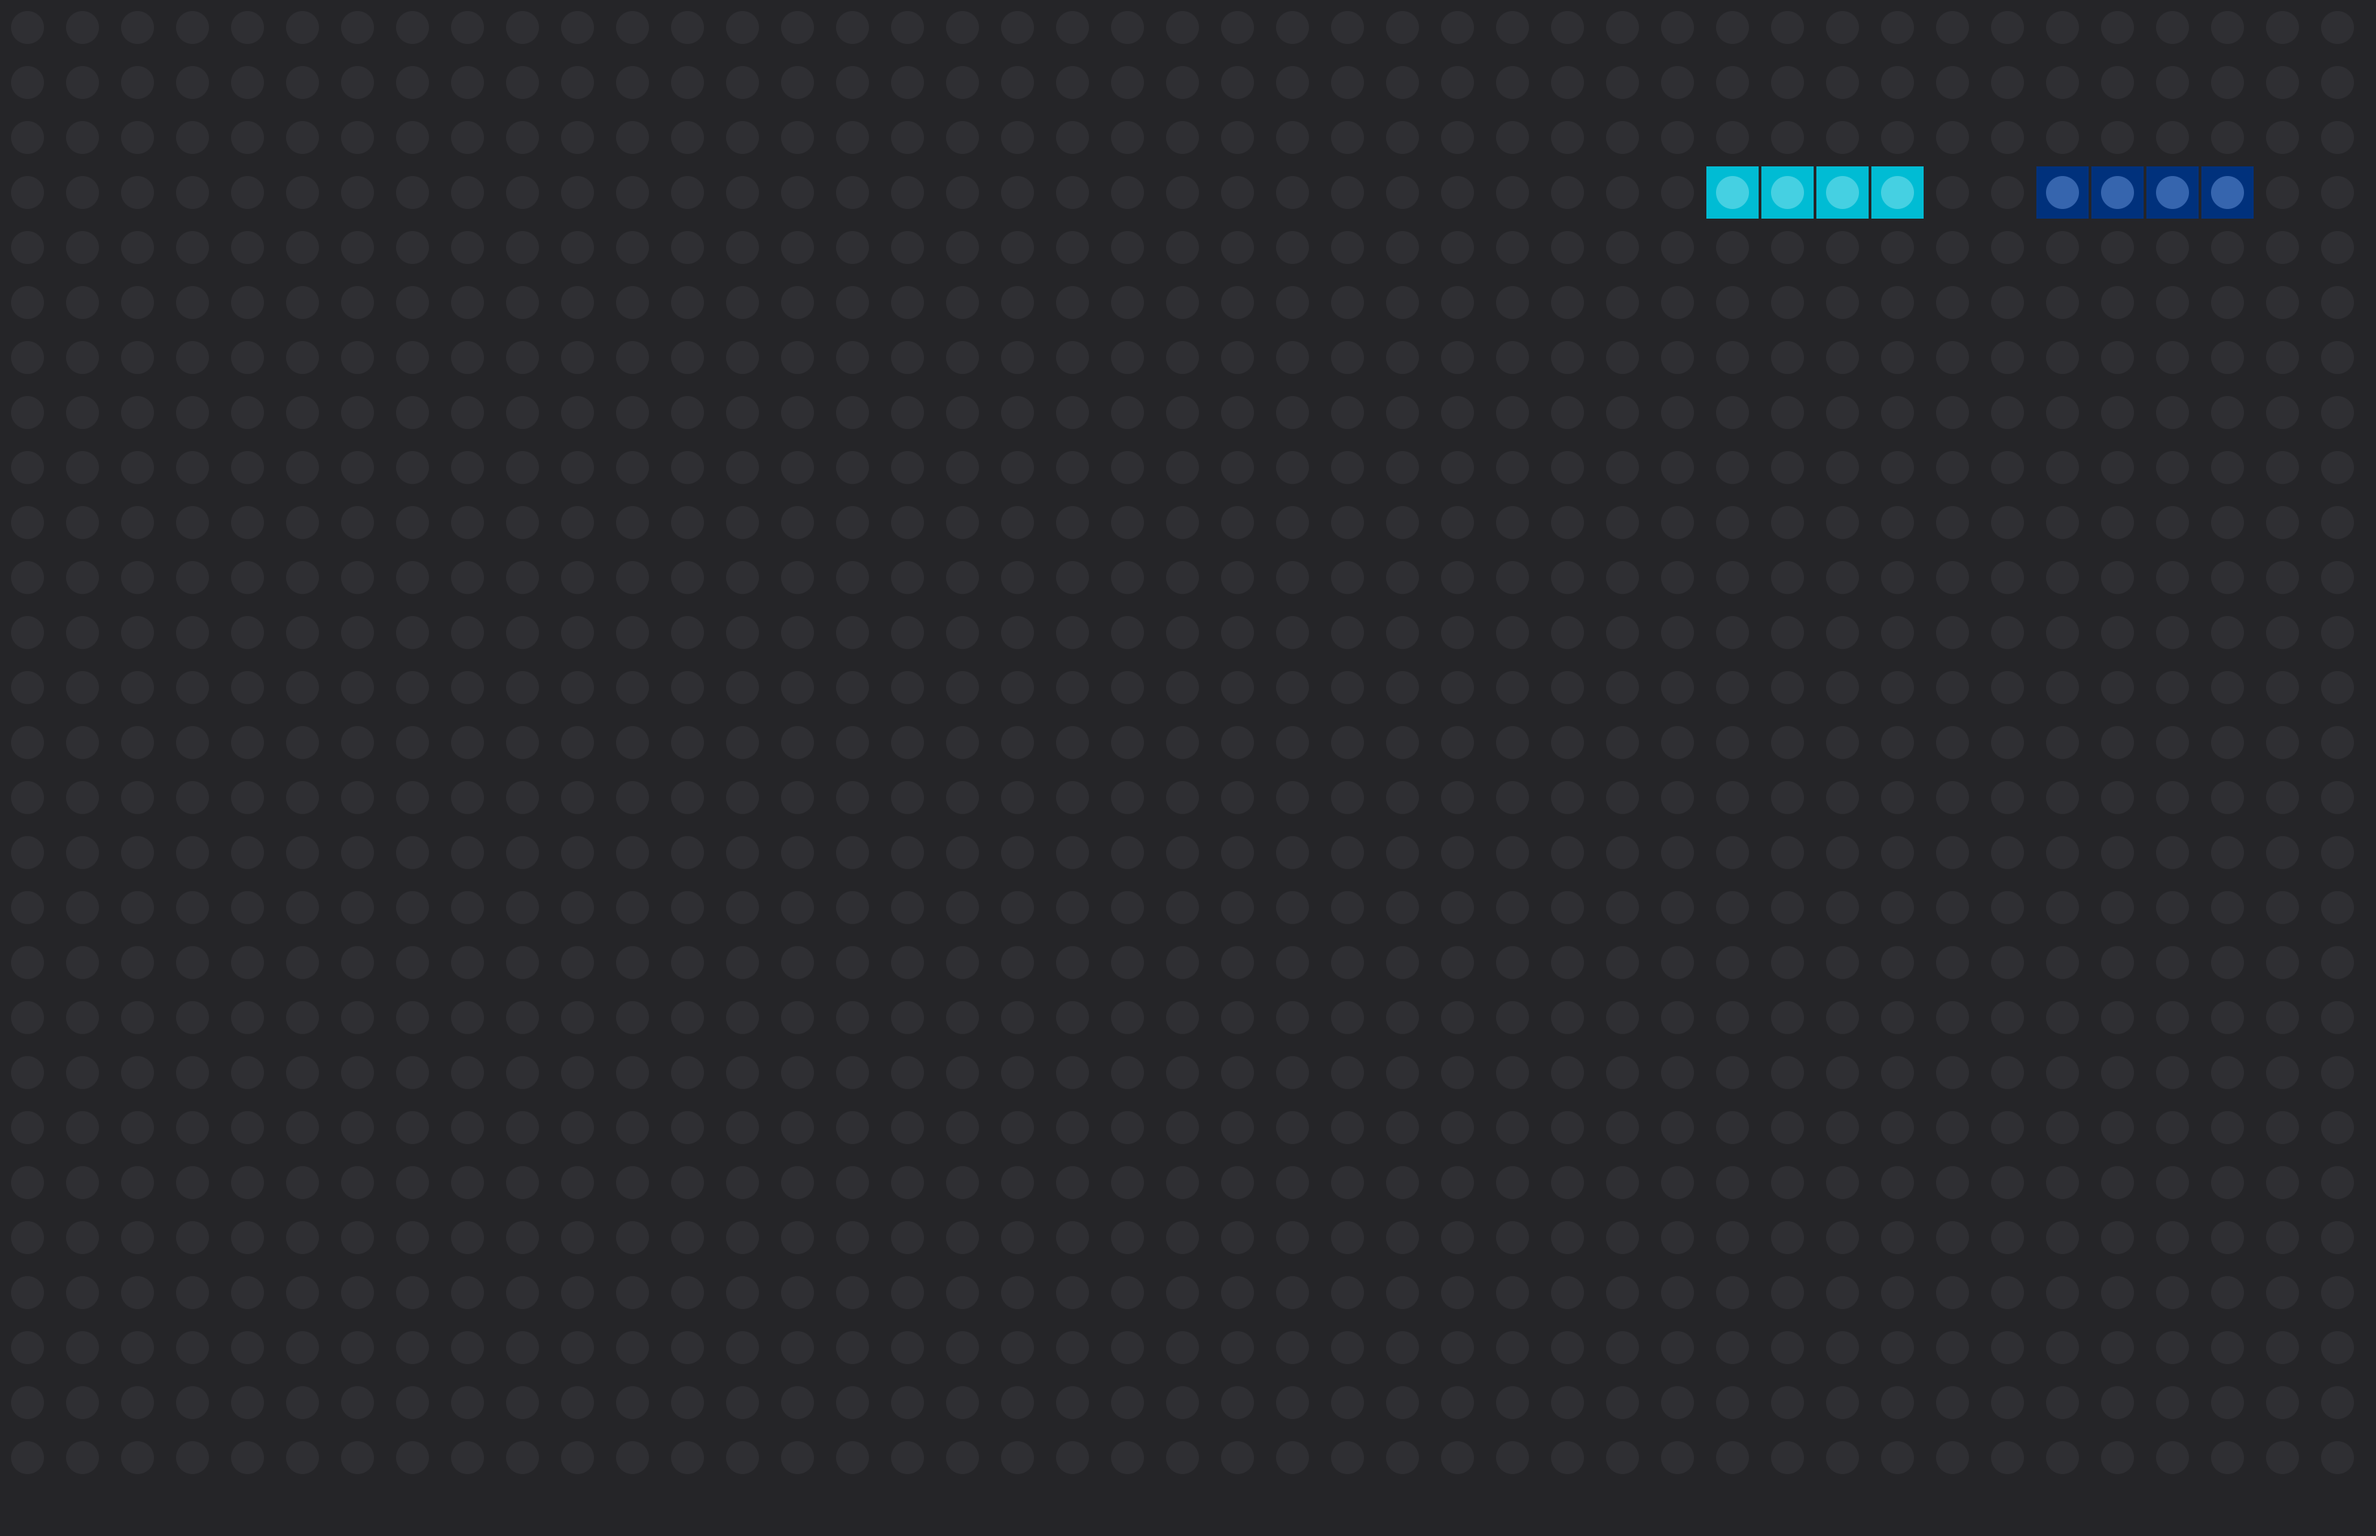
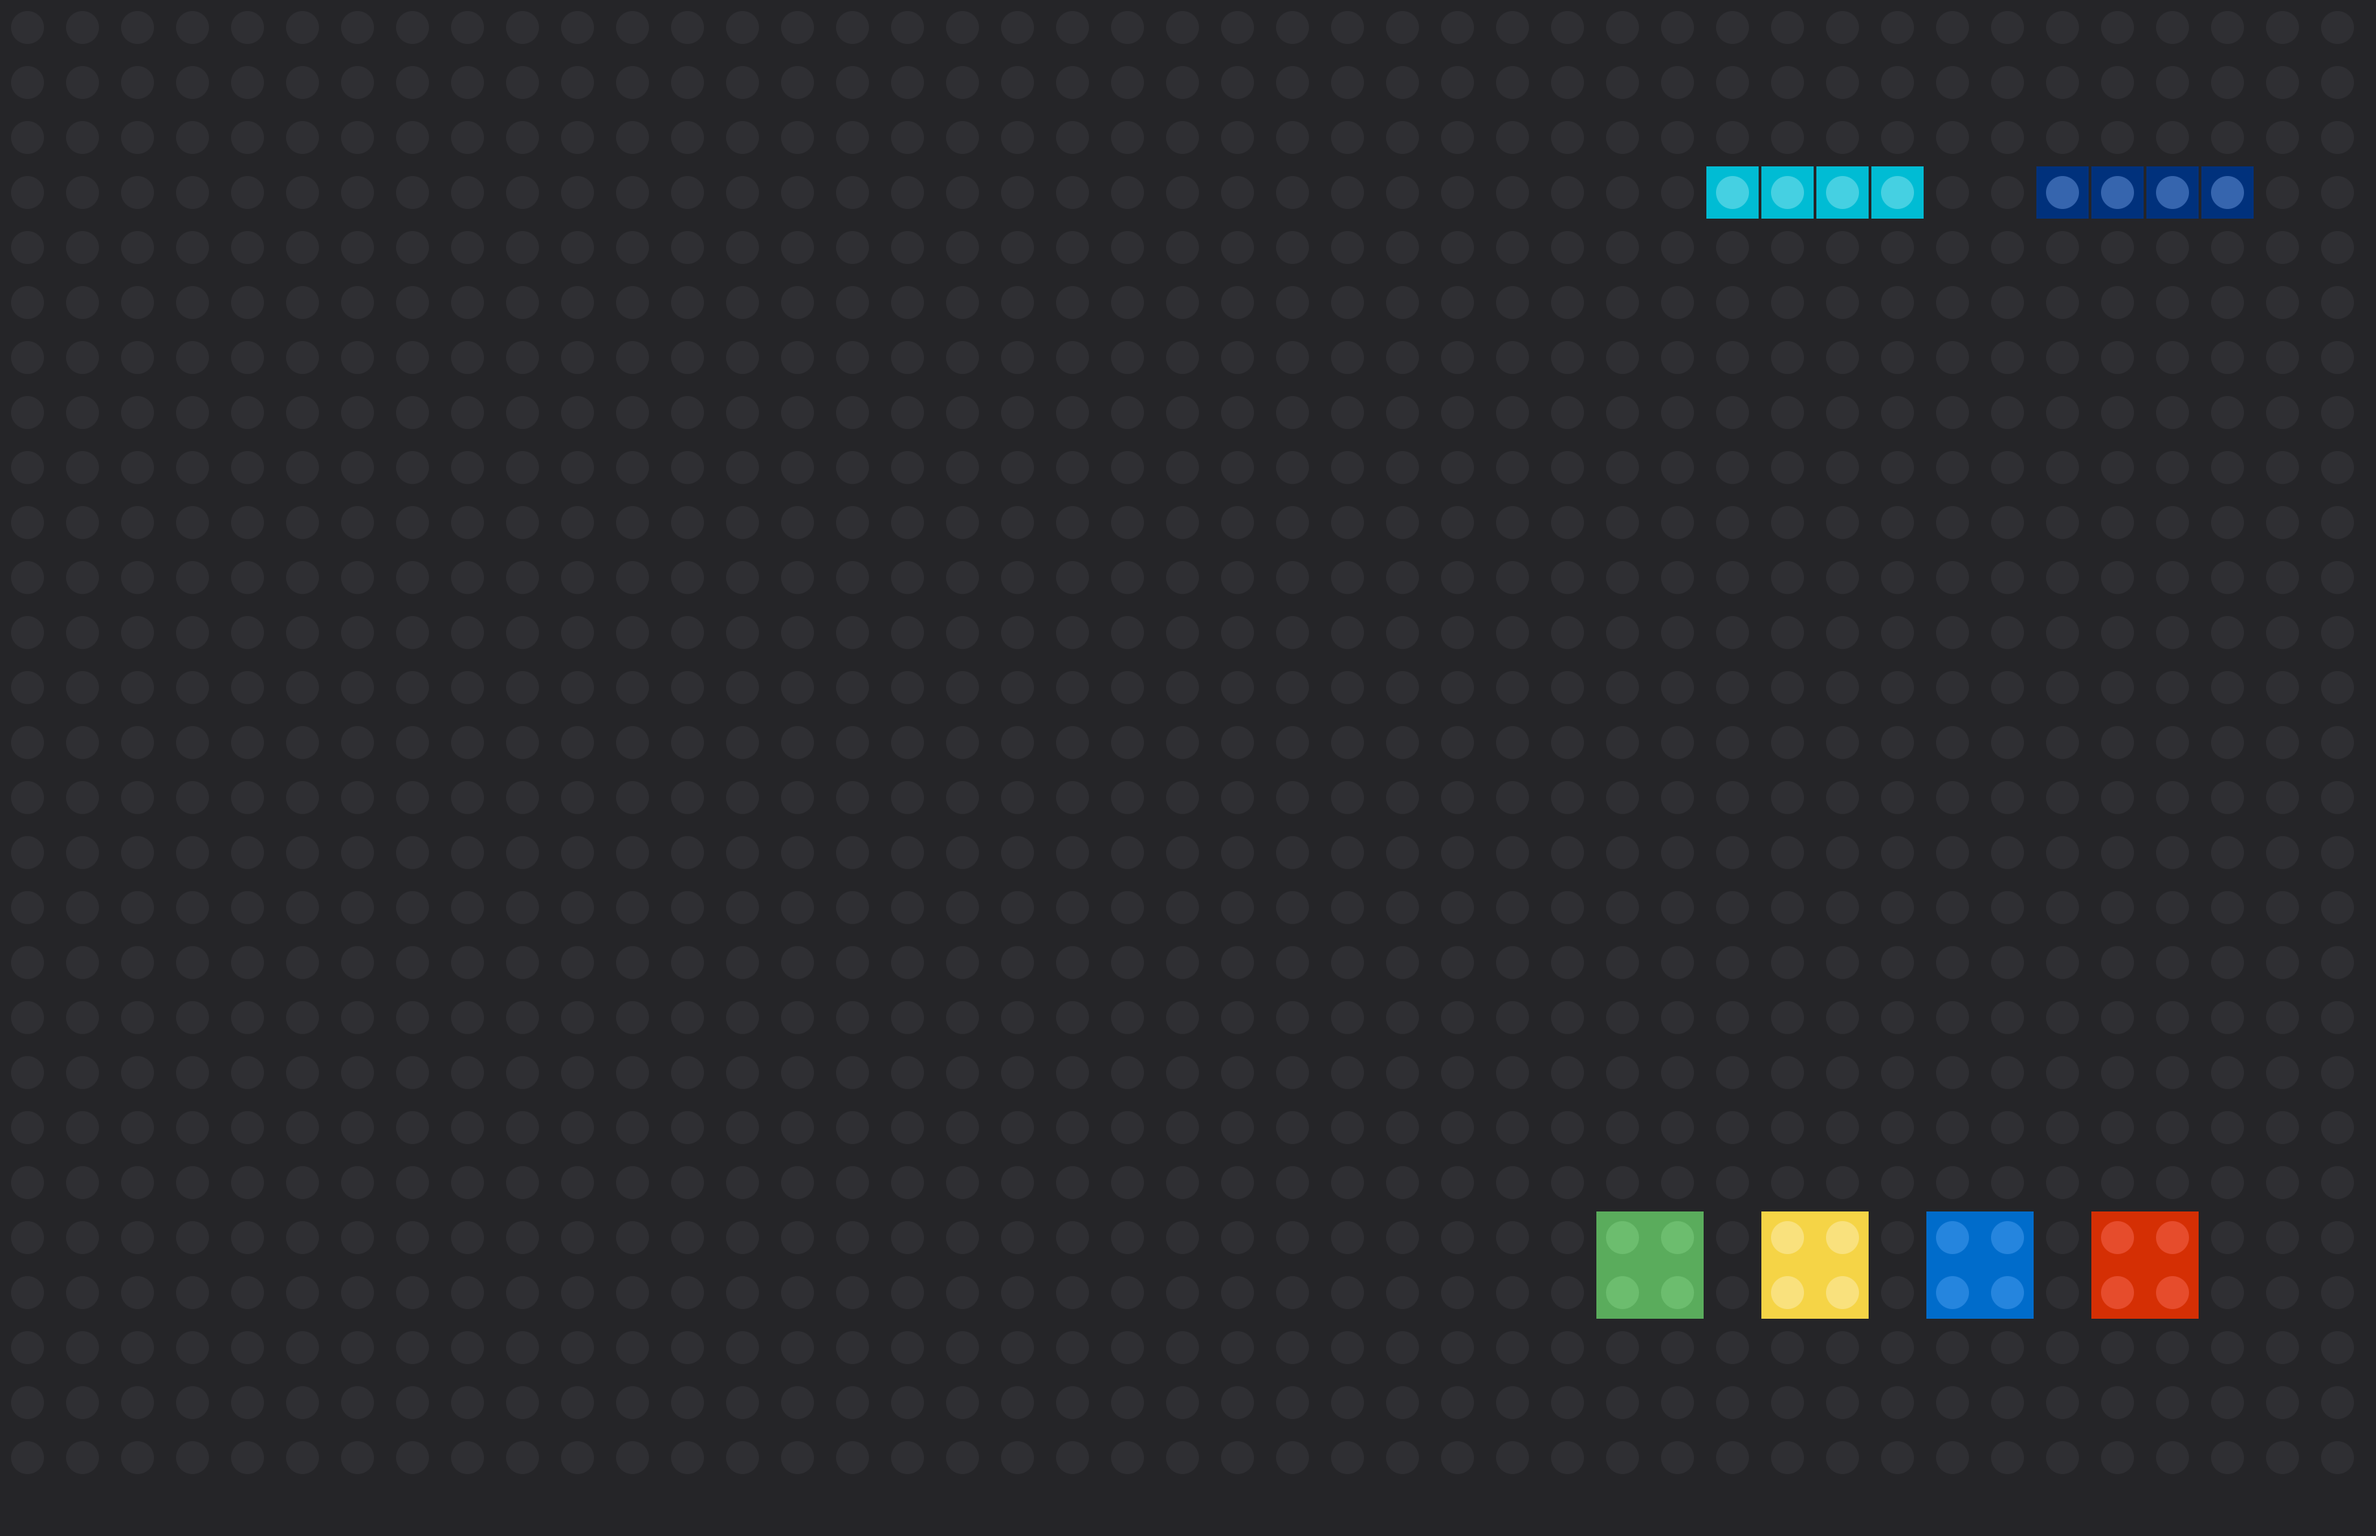
(wallpapers): bring back the Kick75 accent bricks

Changed region(s): [[0.6562, 0.7722, 0.9375, 0.8648]]

diff --git a/home/.config/sketchybar/wallpapers/wallpapers.swift b/home/.config/sketchybar/wallpapers/wallpapers.swift
@@ -27,11 +27,18 @@ func dot(_ ctx: CGContext, _ x: Int, _ y: Int, _ r: Int, _ c: CGColor) {
 let flagCells: [(Int, UInt32, UInt32)] =
   (0..<4).map { (12 - $0, 0x00afca, 0x3cc6db) } + (0..<4).map { (6 - $0, 0x012169, 0x2a4f9e) }
 
-// Kick75: LEGO studs on the Obsidian Black case, the flag cells as 1x1 bricks.
+// Kick75: LEGO studs on the Obsidian Black case, four 2x2 bricks bottom right
+// in the keyboard's accents, and the flag cells as 1x1 bricks.
 render("kick") { ctx in
   ctx.setFillColor(rgb(0x1c1c1e)); ctx.fill(CGRect(x: 0, y: 0, width: W, height: H))
   let s = 80
   for gy in 0..<(H / s) { for gx in 0..<(W / s) { dot(ctx, gx * s + s / 2, gy * s + s / 2, 24, rgb(0x232326)) } }
+  let bricks: [(UInt32, UInt32)] = [(0x4b9f4a, 0x5cb35b), (0xf2cd37, 0xf7dc6a), (0x0055bf, 0x1f6fd6), (0xc91a09, 0xdd3522)]
+  for (i, (base, stud)) in bricks.enumerated() {
+    let bx = (W / s - 3 * (bricks.count - i) - 2) * s, by = (H / s - 5) * s
+    ctx.setFillColor(rgb(base)); ctx.fill(CGRect(x: bx + 2, y: by + 2, width: 2 * s - 4, height: 2 * s - 4))
+    for j in 0..<4 { dot(ctx, bx + s / 2 + (j % 2) * s, by + s / 2 + (j / 2) * s, 24, rgb(stud)) }
+  }
   for (col, base, stud) in flagCells {
     let x = (W / s - col) * s, y = 3 * s
     ctx.setFillColor(rgb(base)); ctx.fill(CGRect(x: x + 2, y: y + 2, width: s - 4, height: s - 4))

diff --git a/README.md b/README.md
@@ -315,7 +315,7 @@ grey caps and three accents: mint Esc, yellow Enter (the clock), red knob; the *
 palette; the **built-in** keyboard alone gets black caps, white legends and the
 macOS system blue on the pressed workspace. Each palette is one `case` branch in `sketchybarrc`.
 The wallpaper follows too, set by `sketchybarrc` on every load from
-`wallpapers/{kick,node,builtin}.png`: LEGO studs, or the Node's perforation
+`wallpapers/{kick,node,builtin}.png`: LEGO studs with four accent bricks, or the Node's perforation
 with a mint 5x2 LED block, each with four Kazakh sky-blue cells, a gap and
 four Australian navy ones at the top right (1x1 bricks on the Kick, bigger dots
 on the Node).
